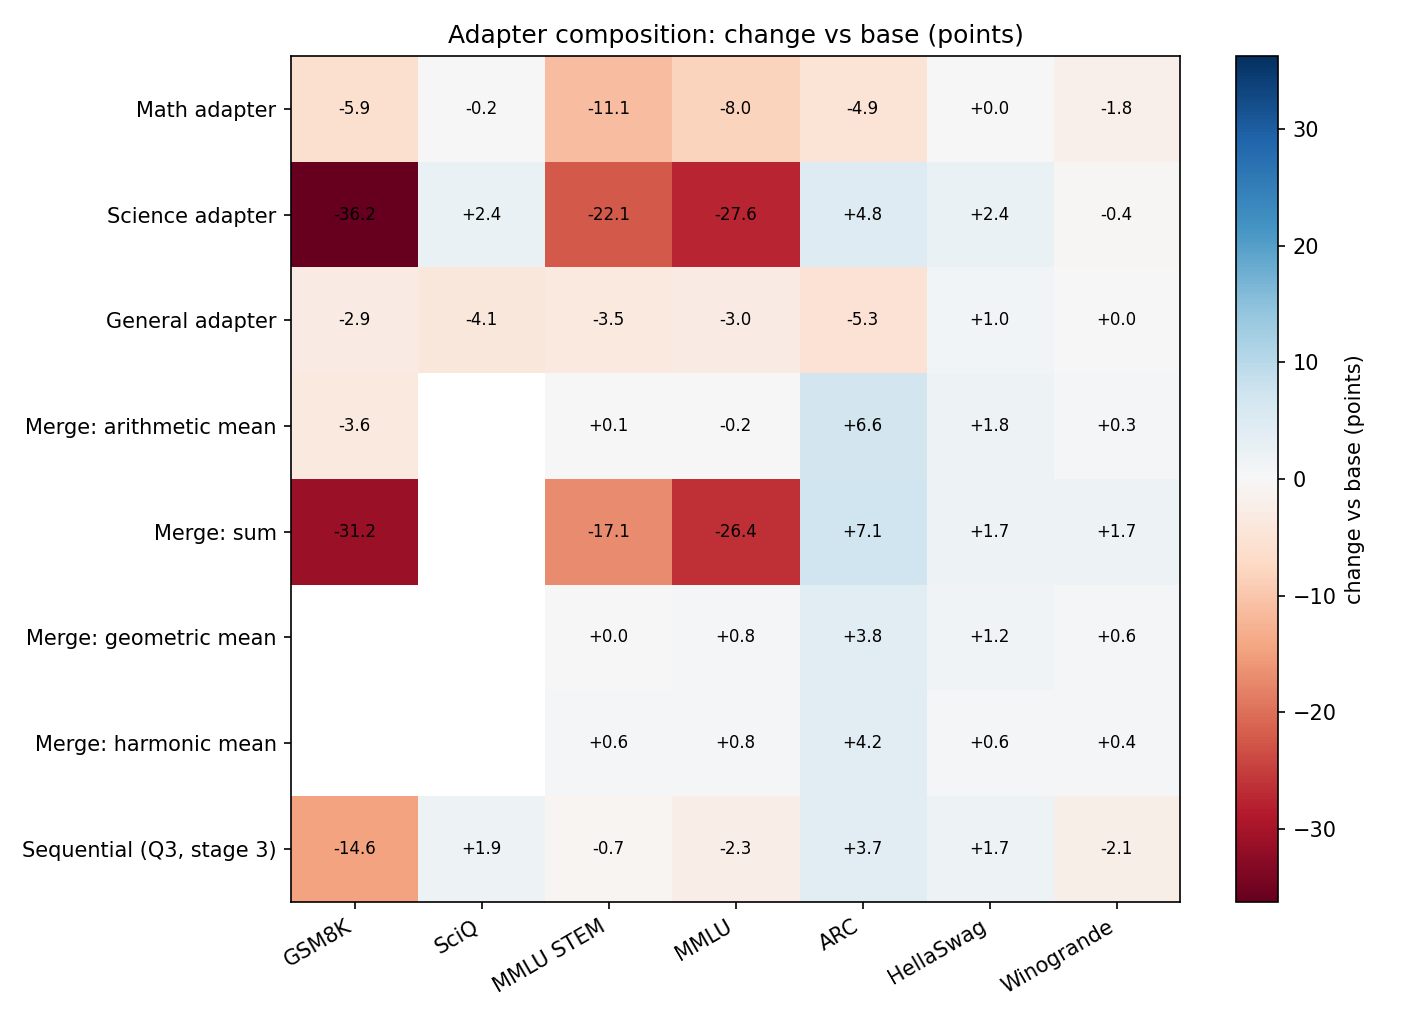
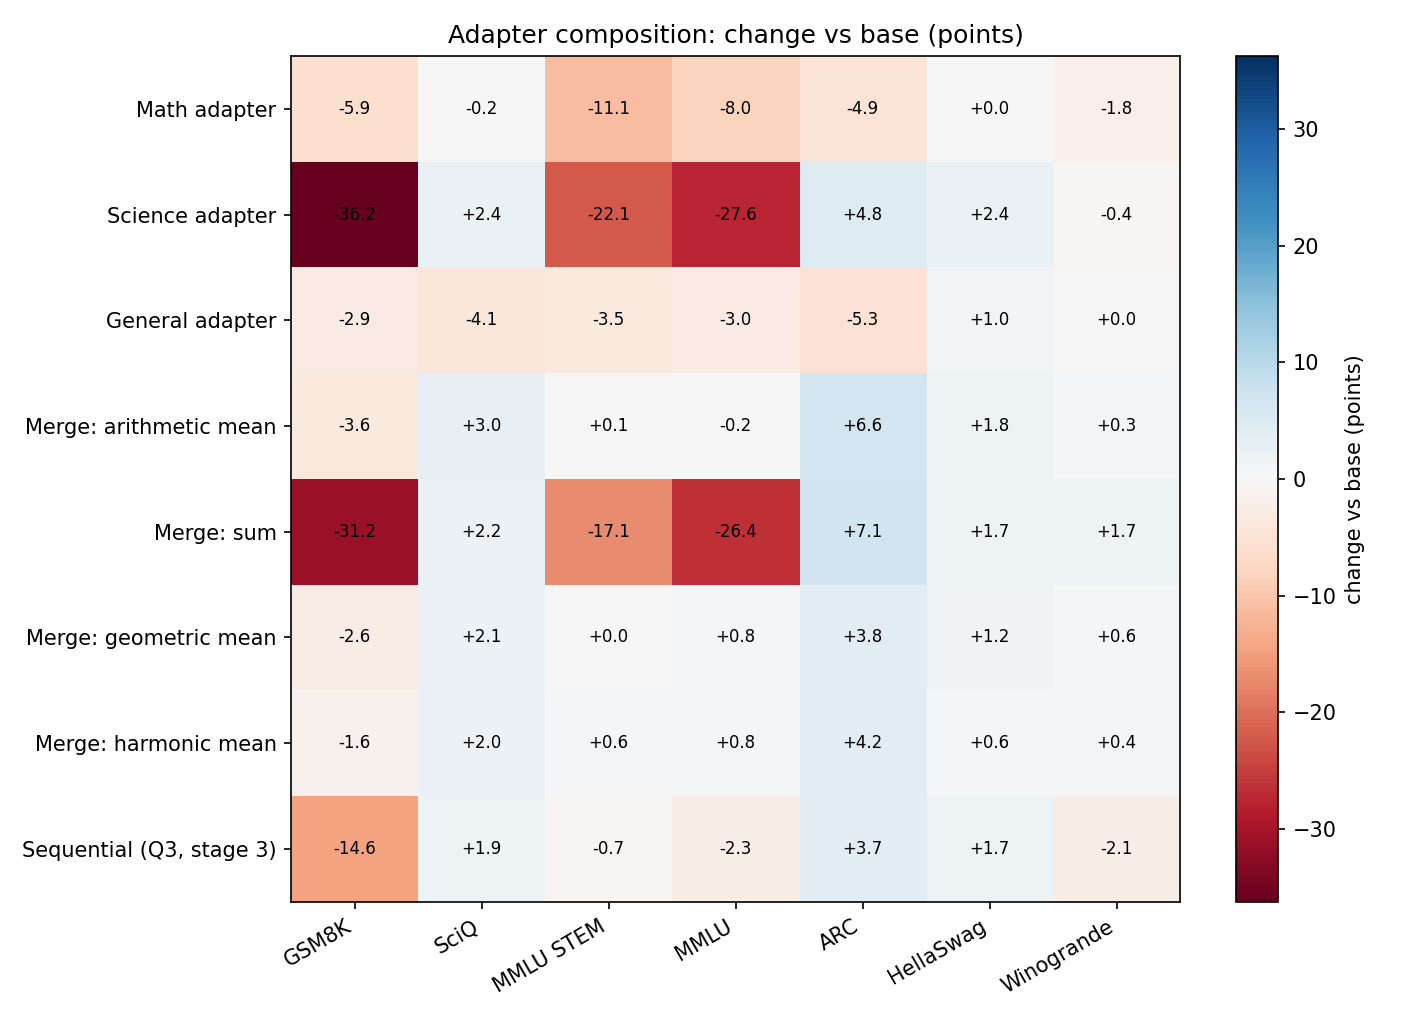
update merging results and observations

Changed region(s): [[0.1853, 0.5471, 0.3088, 0.699]]

diff --git a/make_report2.py b/make_report2.py
@@ -205,7 +205,7 @@ L += ["## 5. Adapter composition", "",
 L += img("results/fig_q4_merging.png", "Merging") + table(Q4) + ["", "Change vs base (points):", ""] + change_table(Q4) + [""] + bullets(Q4) + [""]
 
 L += ["## Gain versus forgetting", ""] + img("results/fig_tradeoff_all.png", "Trade-off") + [
-      "## Key observations", "", "*To be written from the results above.*", "",
+      *(open("observations.md").read().split("\n") + [""] if os.path.exists("observations.md") else ["## Key observations", "", "*To be written from the results above.*", ""]),
       "## Limitations", "",
       "- Single seed per configuration; differences smaller than about two standard errors should be treated as noise.",
       "- Limited evaluations in sections 2 to 5 (first 300 GSM8K questions, 1,000 questions for ARC, HellaSwag and Winogrande, 50 per MMLU subject).",

diff --git a/README.md b/README.md
@@ -130,10 +130,10 @@ Math (`A`), science (`Ds`, 3,200 SciQ) and general (`Dg`, 3,200 Alpaca) adapters
 | Math adapter | 0.563 ± 0.029 | 0.537 ± 0.009 | 0.420 ± 0.015 | 0.400 ± 0.015 | 0.584 ± 0.016 | 0.626 ± 0.015 | 0.940 ± 0.008 |
 | Science adapter | 0.260 ± 0.025 | 0.341 ± 0.009 | 0.309 ± 0.015 | 0.497 ± 0.016 | 0.608 ± 0.015 | 0.640 ± 0.015 | 0.966 ± 0.006 |
 | General adapter | 0.593 ± 0.028 | 0.587 ± 0.009 | 0.496 ± 0.016 | 0.396 ± 0.015 | 0.594 ± 0.016 | 0.644 ± 0.015 | 0.901 ± 0.009 |
-| Merge: arithmetic mean | 0.587 ± 0.028 | 0.615 ± 0.009 | 0.532 ± 0.016 | 0.515 ± 0.016 | 0.602 ± 0.015 | 0.647 ± 0.015 | - |
-| Merge: sum | 0.310 ± 0.027 | 0.354 ± 0.009 | 0.360 ± 0.015 | 0.520 ± 0.016 | 0.601 ± 0.015 | 0.661 ± 0.015 | - |
-| Merge: geometric mean | - | 0.626 ± 0.009 | 0.531 ± 0.016 | 0.487 ± 0.016 | 0.596 ± 0.016 | 0.650 ± 0.015 | - |
-| Merge: harmonic mean | - | 0.625 ± 0.009 | 0.537 ± 0.016 | 0.491 ± 0.016 | 0.590 ± 0.016 | 0.648 ± 0.015 | - |
+| Merge: arithmetic mean | 0.587 ± 0.028 | 0.615 ± 0.009 | 0.532 ± 0.016 | 0.515 ± 0.016 | 0.602 ± 0.015 | 0.647 ± 0.015 | 0.972 ± 0.005 |
+| Merge: sum | 0.310 ± 0.027 | 0.354 ± 0.009 | 0.360 ± 0.015 | 0.520 ± 0.016 | 0.601 ± 0.015 | 0.661 ± 0.015 | 0.964 ± 0.006 |
+| Merge: geometric mean | 0.597 ± 0.028 | 0.626 ± 0.009 | 0.531 ± 0.016 | 0.487 ± 0.016 | 0.596 ± 0.016 | 0.650 ± 0.015 | 0.963 ± 0.006 |
+| Merge: harmonic mean | 0.607 ± 0.028 | 0.625 ± 0.009 | 0.537 ± 0.016 | 0.491 ± 0.016 | 0.590 ± 0.016 | 0.648 ± 0.015 | 0.962 ± 0.006 |
 | Sequential (Q3, stage 3) | 0.477 ± 0.029 | 0.594 ± 0.009 | 0.523 ± 0.016 | 0.486 ± 0.016 | 0.601 ± 0.015 | 0.623 ± 0.015 | 0.961 ± 0.006 |
 
 Change vs base (points):
@@ -143,19 +143,19 @@ Change vs base (points):
 | Math adapter | -5.9 | -8.0 * | -11.1 * | -4.9 * | +0.0 | -1.8 | -0.2 | -3.7 |
 | Science adapter | -36.2 * | -27.6 * | -22.1 * | +4.8 * | +2.4 | -0.4 | +2.4 * | -5.2 |
 | General adapter | -2.9 | -3.0 * | -3.5 | -5.3 * | +1.0 | +0.0 | -4.1 * | -1.8 |
-| Merge: arithmetic mean | -3.6 | -0.2 | +0.1 | +6.6 * | +1.8 | +0.3 | - | +2.1 |
-| Merge: sum | -31.2 * | -26.4 * | -17.1 * | +7.1 * | +1.7 | +1.7 | - | -4.0 |
-| Merge: geometric mean | - | +0.8 | +0.0 | +3.8 | +1.2 | +0.6 | - | +1.6 |
-| Merge: harmonic mean | - | +0.8 | +0.6 | +4.2 | +0.6 | +0.4 | - | +1.5 |
+| Merge: arithmetic mean | -3.6 | -0.2 | +0.1 | +6.6 * | +1.8 | +0.3 | +3.0 * | +2.1 |
+| Merge: sum | -31.2 * | -26.4 * | -17.1 * | +7.1 * | +1.7 | +1.7 | +2.2 * | -4.0 |
+| Merge: geometric mean | -2.6 | +0.8 | +0.0 | +3.8 | +1.2 | +0.6 | +2.1 * | +1.6 |
+| Merge: harmonic mean | -1.6 | +0.8 | +0.6 | +4.2 | +0.6 | +0.4 | +2.0 * | +1.5 |
 | Sequential (Q3, stage 3) | -14.6 * | -2.3 | -0.7 | +3.7 | +1.7 | -2.1 | +1.9 | +0.3 |
 
 - **Math adapter:** GSM8K -5.9, MMLU STEM -11.1 *, MMLU -8.0 *, SciQ -0.2; average general change -3.7
 - **Science adapter:** GSM8K -36.2 *, MMLU STEM -22.1 *, MMLU -27.6 *, SciQ +2.4 *; average general change -5.2
 - **General adapter:** GSM8K -2.9, MMLU STEM -3.5, MMLU -3.0 *, SciQ -4.1 *; average general change -1.8
-- **Merge: arithmetic mean:** GSM8K -3.6, MMLU STEM +0.1, MMLU -0.2; average general change +2.1
-- **Merge: sum:** GSM8K -31.2 *, MMLU STEM -17.1 *, MMLU -26.4 *; average general change -4.0
-- **Merge: geometric mean:** MMLU STEM +0.0, MMLU +0.8; average general change +1.6
-- **Merge: harmonic mean:** MMLU STEM +0.6, MMLU +0.8; average general change +1.5
+- **Merge: arithmetic mean:** GSM8K -3.6, MMLU STEM +0.1, MMLU -0.2, SciQ +3.0 *; average general change +2.1
+- **Merge: sum:** GSM8K -31.2 *, MMLU STEM -17.1 *, MMLU -26.4 *, SciQ +2.2 *; average general change -4.0
+- **Merge: geometric mean:** GSM8K -2.6, MMLU STEM +0.0, MMLU +0.8, SciQ +2.1 *; average general change +1.6
+- **Merge: harmonic mean:** GSM8K -1.6, MMLU STEM +0.6, MMLU +0.8, SciQ +2.0 *; average general change +1.5
 - **Sequential (Q3, stage 3):** GSM8K -14.6 *, MMLU STEM -0.7, MMLU -2.3, SciQ +1.9; average general change +0.3
 
 ## Gain versus forgetting
@@ -164,7 +164,56 @@ Change vs base (points):
 
 ## Key observations
 
-*To be written from the results above.*
+**Context.** The base model already solves 62.2% of GSM8K (full test set), and no fine-tuned model in this project beat it (best: 0.609, the attention-only adapter at lr 2e-4). There was therefore no specialization gain to trade against forgetting. The experiments measure how much each setup damages the model and how well that damage can be repaired. Likely reasons, not tested: GSM8K's training solutions are terse, and the base model already reasons well on this task.
+
+**Adapter placement (lr 2e-4, full test sets).** No adapter configuration moves MMLU, ARC, HellaSwag or Winogrande by more than about one point. GSM8K falls by about 5 points with MLP-only and both-layer adapters (0.622 to 0.575 and 0.573) but not with attention-only adapters (0.609, within noise), which train about a quarter of the parameters.
+
+**Which capabilities are most fragile (stress setting, lr 1e-3, run A).**
+- Most fragile: MMLU STEM (-11.1 points, -21% relative), MMLU social sciences (-10.3, -15%), ARC (-4.9, -11%) and MMLU other (-5.8, -9%). MMLU humanities (-3.7) is borderline. HellaSwag (0.0) and SciQ (-0.2) did not change, and Winogrande (-1.8) is within noise.
+- They do not degrade at the same rate. MMLU fell abruptly: 0.617 at the base, 0.602 at step 25 (within noise), 0.523 at step 50, then it stayed between 0.51 and 0.54 for the rest of the 234 steps. ARC declined gradually (0.449, 0.424, 0.408, 0.400 at the final step). Winogrande moved late (0.648 at step 100, 0.623 at step 200).
+- Hypothesis (not tested): quantitative and scientific recall (STEM, ARC, quantitative social-science subjects) overlaps more with writing arithmetic solutions than commonsense continuation (HellaSwag) does, so math training overwrites it first.
+- Most of the MMLU damage appears by step 50, so very early stopping would avoid it. We did not evaluate GSM8K at those checkpoints, so the cost of stopping early is unknown.
+
+**Data strategies (same GSM8K examples plus 3,200 general examples).** All three mixing variants recovered about 60 to 65% of the MMLU loss (0.537 without mixing to 0.584 to 0.589; base 0.617) with no cost to GSM8K (0.557 to 0.567 against 0.563). Shuffled and interleaved batches behave the same (MMLU 0.588 against 0.584). Matching the data to the fragile area mattered for ARC: with SciQ added, ARC rose to 0.488 (+3.9 over the base), while with Alpaca it stayed down (0.382 and 0.380), a gap of about 10 points, well beyond noise. STEM recovery was best with SciQ (0.515 against 0.502 and 0.487), but that difference is within noise. Side effect: Alpaca-based mixes lowered SciQ by about 3 points (0.908 and 0.910 against 0.940). No variant removed the MMLU drop entirely (about 3 points below base remain).
+
+**Sequential specialization.** Stage 2 (adding science with about 29% math replay) raised ARC (0.400 to 0.488) and STEM (0.420 to 0.469) but cost math (GSM8K 0.563 to 0.473) and humanities (0.620 to 0.546). Stage 3 (adding general instruction data) restored MMLU to 0.594 (STEM 0.523, within noise of the base) but did not recover GSM8K (0.477). Across the stages GSM8K went 0.622, 0.563, 0.473, 0.477, so LoRA's small parameter footprint did not isolate the domains: every stage updates the same adapter. Training math and science jointly (run M3) kept GSM8K at 0.563 and reached ARC 0.488, so joint training retained more than sequential training, although that comparison is confounded by the math share of the final data (70% against 29%). Order was not tested.
+
+**Adapter composition.** Three adapters were trained separately from the base model (math, science, general). Individually, the science adapter raised ARC (+4.8) and SciQ (+2.4) but wrecked math and knowledge (GSM8K 0.260, MMLU 0.341), and the general adapter was mild (MMLU -3.0, ARC -5.3). Merged in weight-change space:
+
+| Merge | GSM8K | MMLU | ARC | SciQ |
+|---|---:|---:|---:|---:|
+| Base model | 0.622 | 0.617 | 0.449 | 0.942 |
+| Arithmetic mean | 0.587 | 0.615 | 0.515 | 0.972 |
+| Geometric mean (sign-agreement) | 0.597 | 0.626 | 0.487 | 0.963 |
+| Harmonic mean (sign-agreement) | 0.607 | 0.625 | 0.491 | 0.962 |
+| Sum (scale 1) | 0.310 | 0.354 | 0.520 | 0.964 |
+
+All three mean-based merges kept the science gain (SciQ +2.0 to +3.0 over the base, ARC +3.8 to +6.6, at least as high as the science adapter alone for the arithmetic mean) while leaving math and knowledge at base level (GSM8K within the margin of the base, MMLU within about one point). The three means cannot be ranked: their differences are within noise. All of them beat the sequential model on math (0.587 to 0.607 against 0.477) and matched or exceeded it on MMLU and ARC. The geometric and harmonic variants keep only update entries on which all three adapters agree in sign, which gives a sparse update, yet they preserved the science gain; our guess (not tested) is that the sign-consistent entries carry the robust, shared directions. The sum with scale 1 collapsed math and knowledge (GSM8K 0.310, MMLU 0.354) while keeping the science gain: the science adapter's damage dominates when its update is added at full strength. "Retaining all specializations" is limited here because the math adapter had no gain to retain. SciQ for all merges and GSM8K for the geometric and harmonic merges were evaluated after a session restart, from adapter backups stored in half precision; the effect of that rounding is expected to be negligible.
+
+## What worked, what did not, and what remains open
+
+**Worked**
+- Mixing general data into the math training, with any schedule, repaired about 60 to 65% of the MMLU loss at no GSM8K cost.
+- Data matched to the fragile area (SciQ for the science and STEM weakness) was the only variant that protected ARC.
+- Averaging separately trained adapters (arithmetic, geometric or harmonic mean) kept the science gain and kept math and general knowledge at base level, and beat sequential training on math.
+- A final general-data stage in the sequential run restored MMLU.
+- Attention-only adapters matched the other placements at lr 2e-4 with a quarter of the parameters and without the GSM8K loss.
+
+**Did not work**
+- No setting improved GSM8K over the base model.
+- Interleaving batches gave no advantage over shuffling.
+- Sequential training cascaded the loss in math despite replaying math examples.
+- Task arithmetic with scale 1 collapsed math and knowledge.
+- Alpaca mixing did not protect ARC and lowered SciQ slightly.
+
+**Unresolved**
+- Whether any math gain is possible with more informative data (for example MetaMathQA) or a stronger objective, and how merging behaves when an adapter does have a gain to retain.
+- Order effects in sequential training, larger replay shares, and lower learning rates in later stages.
+- A scale sweep for task arithmetic between 1/3 and 1.
+- Why the science-only adapter destroyed math and knowledge (answer-format shift or genuine overwriting).
+- The mechanism behind the abrupt MMLU drop before step 50, and what early stopping would cost on GSM8K.
+- Single seed throughout, limited evaluation sets for the stress experiments, and one model (no other sizes or families).
+
 
 ## Limitations
 

diff --git a/observations.md b/observations.md
@@ -1,0 +1,51 @@
+## Key observations
+
+**Context.** The base model already solves 62.2% of GSM8K (full test set), and no fine-tuned model in this project beat it (best: 0.609, the attention-only adapter at lr 2e-4). There was therefore no specialization gain to trade against forgetting. The experiments measure how much each setup damages the model and how well that damage can be repaired. Likely reasons, not tested: GSM8K's training solutions are terse, and the base model already reasons well on this task.
+
+**Adapter placement (lr 2e-4, full test sets).** No adapter configuration moves MMLU, ARC, HellaSwag or Winogrande by more than about one point. GSM8K falls by about 5 points with MLP-only and both-layer adapters (0.622 to 0.575 and 0.573) but not with attention-only adapters (0.609, within noise), which train about a quarter of the parameters.
+
+**Which capabilities are most fragile (stress setting, lr 1e-3, run A).**
+- Most fragile: MMLU STEM (-11.1 points, -21% relative), MMLU social sciences (-10.3, -15%), ARC (-4.9, -11%) and MMLU other (-5.8, -9%). MMLU humanities (-3.7) is borderline. HellaSwag (0.0) and SciQ (-0.2) did not change, and Winogrande (-1.8) is within noise.
+- They do not degrade at the same rate. MMLU fell abruptly: 0.617 at the base, 0.602 at step 25 (within noise), 0.523 at step 50, then it stayed between 0.51 and 0.54 for the rest of the 234 steps. ARC declined gradually (0.449, 0.424, 0.408, 0.400 at the final step). Winogrande moved late (0.648 at step 100, 0.623 at step 200).
+- Hypothesis (not tested): quantitative and scientific recall (STEM, ARC, quantitative social-science subjects) overlaps more with writing arithmetic solutions than commonsense continuation (HellaSwag) does, so math training overwrites it first.
+- Most of the MMLU damage appears by step 50, so very early stopping would avoid it. We did not evaluate GSM8K at those checkpoints, so the cost of stopping early is unknown.
+
+**Data strategies (same GSM8K examples plus 3,200 general examples).** All three mixing variants recovered about 60 to 65% of the MMLU loss (0.537 without mixing to 0.584 to 0.589; base 0.617) with no cost to GSM8K (0.557 to 0.567 against 0.563). Shuffled and interleaved batches behave the same (MMLU 0.588 against 0.584). Matching the data to the fragile area mattered for ARC: with SciQ added, ARC rose to 0.488 (+3.9 over the base), while with Alpaca it stayed down (0.382 and 0.380), a gap of about 10 points, well beyond noise. STEM recovery was best with SciQ (0.515 against 0.502 and 0.487), but that difference is within noise. Side effect: Alpaca-based mixes lowered SciQ by about 3 points (0.908 and 0.910 against 0.940). No variant removed the MMLU drop entirely (about 3 points below base remain).
+
+**Sequential specialization.** Stage 2 (adding science with about 29% math replay) raised ARC (0.400 to 0.488) and STEM (0.420 to 0.469) but cost math (GSM8K 0.563 to 0.473) and humanities (0.620 to 0.546). Stage 3 (adding general instruction data) restored MMLU to 0.594 (STEM 0.523, within noise of the base) but did not recover GSM8K (0.477). Across the stages GSM8K went 0.622, 0.563, 0.473, 0.477, so LoRA's small parameter footprint did not isolate the domains: every stage updates the same adapter. Training math and science jointly (run M3) kept GSM8K at 0.563 and reached ARC 0.488, so joint training retained more than sequential training, although that comparison is confounded by the math share of the final data (70% against 29%). Order was not tested.
+
+**Adapter composition.** Three adapters were trained separately from the base model (math, science, general). Individually, the science adapter raised ARC (+4.8) and SciQ (+2.4) but wrecked math and knowledge (GSM8K 0.260, MMLU 0.341), and the general adapter was mild (MMLU -3.0, ARC -5.3). Merged in weight-change space:
+
+| Merge | GSM8K | MMLU | ARC | SciQ |
+|---|---:|---:|---:|---:|
+| Base model | 0.622 | 0.617 | 0.449 | 0.942 |
+| Arithmetic mean | 0.587 | 0.615 | 0.515 | 0.972 |
+| Geometric mean (sign-agreement) | 0.597 | 0.626 | 0.487 | 0.963 |
+| Harmonic mean (sign-agreement) | 0.607 | 0.625 | 0.491 | 0.962 |
+| Sum (scale 1) | 0.310 | 0.354 | 0.520 | 0.964 |
+
+All three mean-based merges kept the science gain (SciQ +2.0 to +3.0 over the base, ARC +3.8 to +6.6, at least as high as the science adapter alone for the arithmetic mean) while leaving math and knowledge at base level (GSM8K within the margin of the base, MMLU within about one point). The three means cannot be ranked: their differences are within noise. All of them beat the sequential model on math (0.587 to 0.607 against 0.477) and matched or exceeded it on MMLU and ARC. The geometric and harmonic variants keep only update entries on which all three adapters agree in sign, which gives a sparse update, yet they preserved the science gain; our guess (not tested) is that the sign-consistent entries carry the robust, shared directions. The sum with scale 1 collapsed math and knowledge (GSM8K 0.310, MMLU 0.354) while keeping the science gain: the science adapter's damage dominates when its update is added at full strength. "Retaining all specializations" is limited here because the math adapter had no gain to retain. SciQ for all merges and GSM8K for the geometric and harmonic merges were evaluated after a session restart, from adapter backups stored in half precision; the effect of that rounding is expected to be negligible.
+
+## What worked, what did not, and what remains open
+
+**Worked**
+- Mixing general data into the math training, with any schedule, repaired about 60 to 65% of the MMLU loss at no GSM8K cost.
+- Data matched to the fragile area (SciQ for the science and STEM weakness) was the only variant that protected ARC.
+- Averaging separately trained adapters (arithmetic, geometric or harmonic mean) kept the science gain and kept math and general knowledge at base level, and beat sequential training on math.
+- A final general-data stage in the sequential run restored MMLU.
+- Attention-only adapters matched the other placements at lr 2e-4 with a quarter of the parameters and without the GSM8K loss.
+
+**Did not work**
+- No setting improved GSM8K over the base model.
+- Interleaving batches gave no advantage over shuffling.
+- Sequential training cascaded the loss in math despite replaying math examples.
+- Task arithmetic with scale 1 collapsed math and knowledge.
+- Alpaca mixing did not protect ARC and lowered SciQ slightly.
+
+**Unresolved**
+- Whether any math gain is possible with more informative data (for example MetaMathQA) or a stronger objective, and how merging behaves when an adapter does have a gain to retain.
+- Order effects in sequential training, larger replay shares, and lower learning rates in later stages.
+- A scale sweep for task arithmetic between 1/3 and 1.
+- Why the science-only adapter destroyed math and knowledge (answer-format shift or genuine overwriting).
+- The mechanism behind the abrupt MMLU drop before step 50, and what early stopping would cost on GSM8K.
+- Single seed throughout, limited evaluation sets for the stress experiments, and one model (no other sizes or families).
